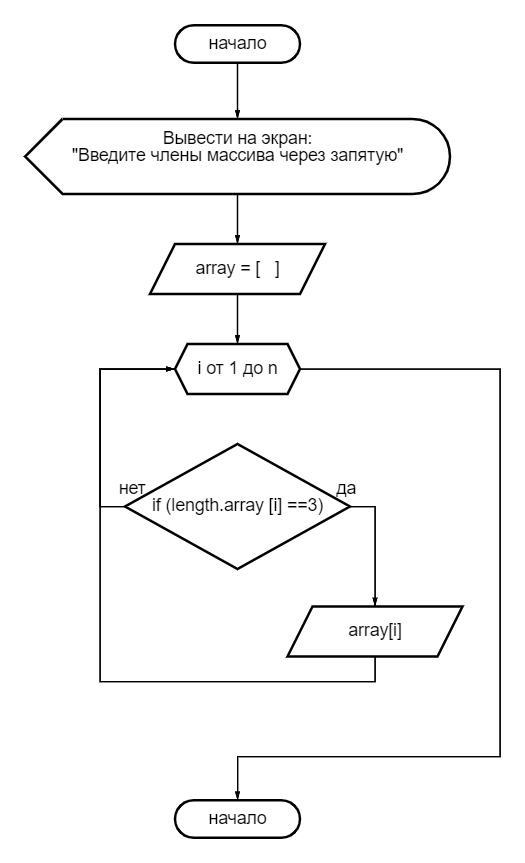
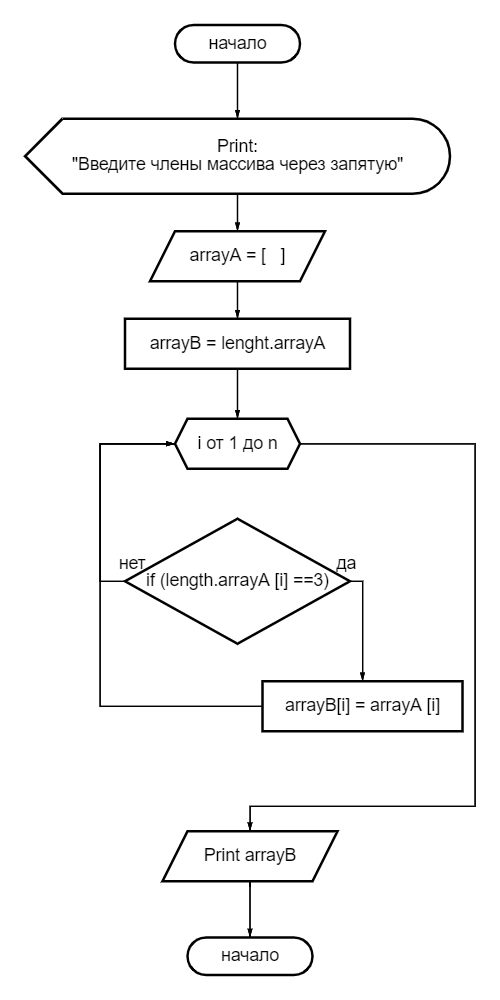
input arrayA

Changed region(s): [[0.03, 0.0, 0.96, 0.9942]]

diff --git a/obj/Debug/net6.0/Test task.AssemblyInfo.cs b/obj/Debug/net6.0/Test task.AssemblyInfo.cs
@@ -1,0 +1,22 @@
+//------------------------------------------------------------------------------
+// <auto-generated>
+//     This code was generated by a tool.
+//
+//     Changes to this file may cause incorrect behavior and will be lost if
+//     the code is regenerated.
+// </auto-generated>
+//------------------------------------------------------------------------------
+
+using System;
+using System.Reflection;
+
+[assembly: System.Reflection.AssemblyCompanyAttribute("Test task")]
+[assembly: System.Reflection.AssemblyConfigurationAttribute("Debug")]
+[assembly: System.Reflection.AssemblyFileVersionAttribute("1.0.0.0")]
+[assembly: System.Reflection.AssemblyInformationalVersionAttribute("1.0.0")]
+[assembly: System.Reflection.AssemblyProductAttribute("Test task")]
+[assembly: System.Reflection.AssemblyTitleAttribute("Test task")]
+[assembly: System.Reflection.AssemblyVersionAttribute("1.0.0.0")]
+
+// Создано классом WriteCodeFragment MSBuild.
+

diff --git a/Program.cs b/Program.cs
@@ -1,2 +1,17 @@
-// See https://aka.ms/new-console-template for more information
-Console.WriteLine("Hello, World!");
+Console.Clear();
+Console.Write("Введите члены массива через запятую");
+string temp = Console.ReadLine();
+string[] arrayA = temp.Split(new Char[] { ' ' });
+string[arrayA.GetLength()] arrayB = "";
+for (int i = 0; i < arrayA.GetLength(); i++)
+{
+    if (arrayA.GetLength(i) == 3)
+    {
+        arrayB[i] = arrayA[i];
+    }
+}
+
+for (int i = 0; i < arrayB.GetLength(); i++)
+{
+    Console.Write(arrayB[i]);
+}

diff --git a/obj/Debug/net6.0/Test task.GlobalUsings.g.cs b/obj/Debug/net6.0/Test task.GlobalUsings.g.cs
@@ -1,0 +1,8 @@
+// <auto-generated/>
+global using global::System;
+global using global::System.Collections.Generic;
+global using global::System.IO;
+global using global::System.Linq;
+global using global::System.Net.Http;
+global using global::System.Threading;
+global using global::System.Threading.Tasks;

diff --git a/obj/Debug/net6.0/.NETCoreApp,Version=v6.0.AssemblyAttributes.cs b/obj/Debug/net6.0/.NETCoreApp,Version=v6.0.AssemblyAttributes.cs
@@ -1,0 +1,4 @@
+// <autogenerated />
+using System;
+using System.Reflection;
+[assembly: global::System.Runtime.Versioning.TargetFrameworkAttribute(".NETCoreApp,Version=v6.0", FrameworkDisplayName = "")]
